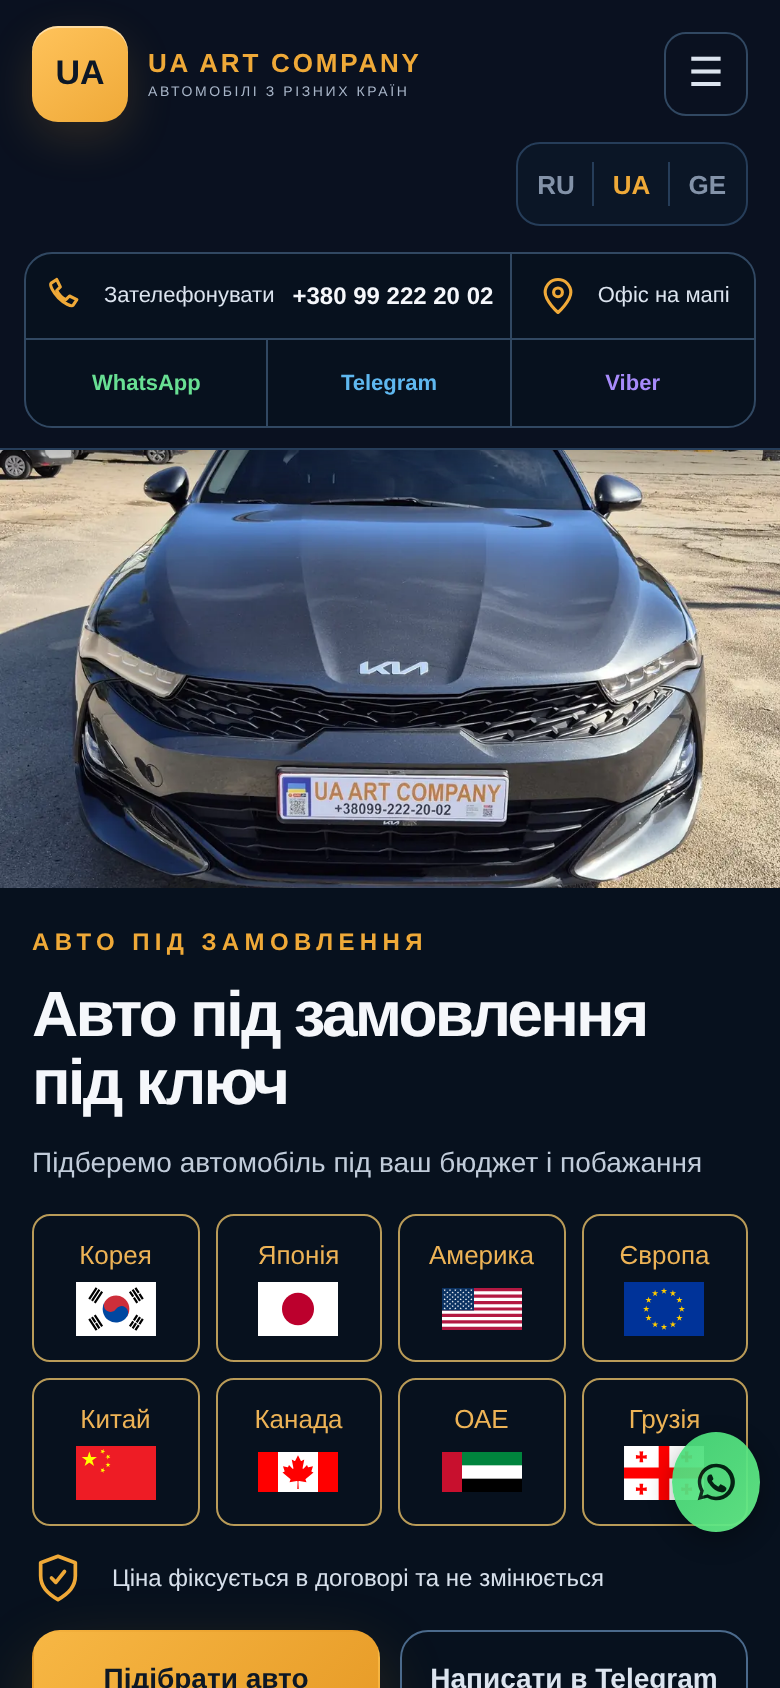
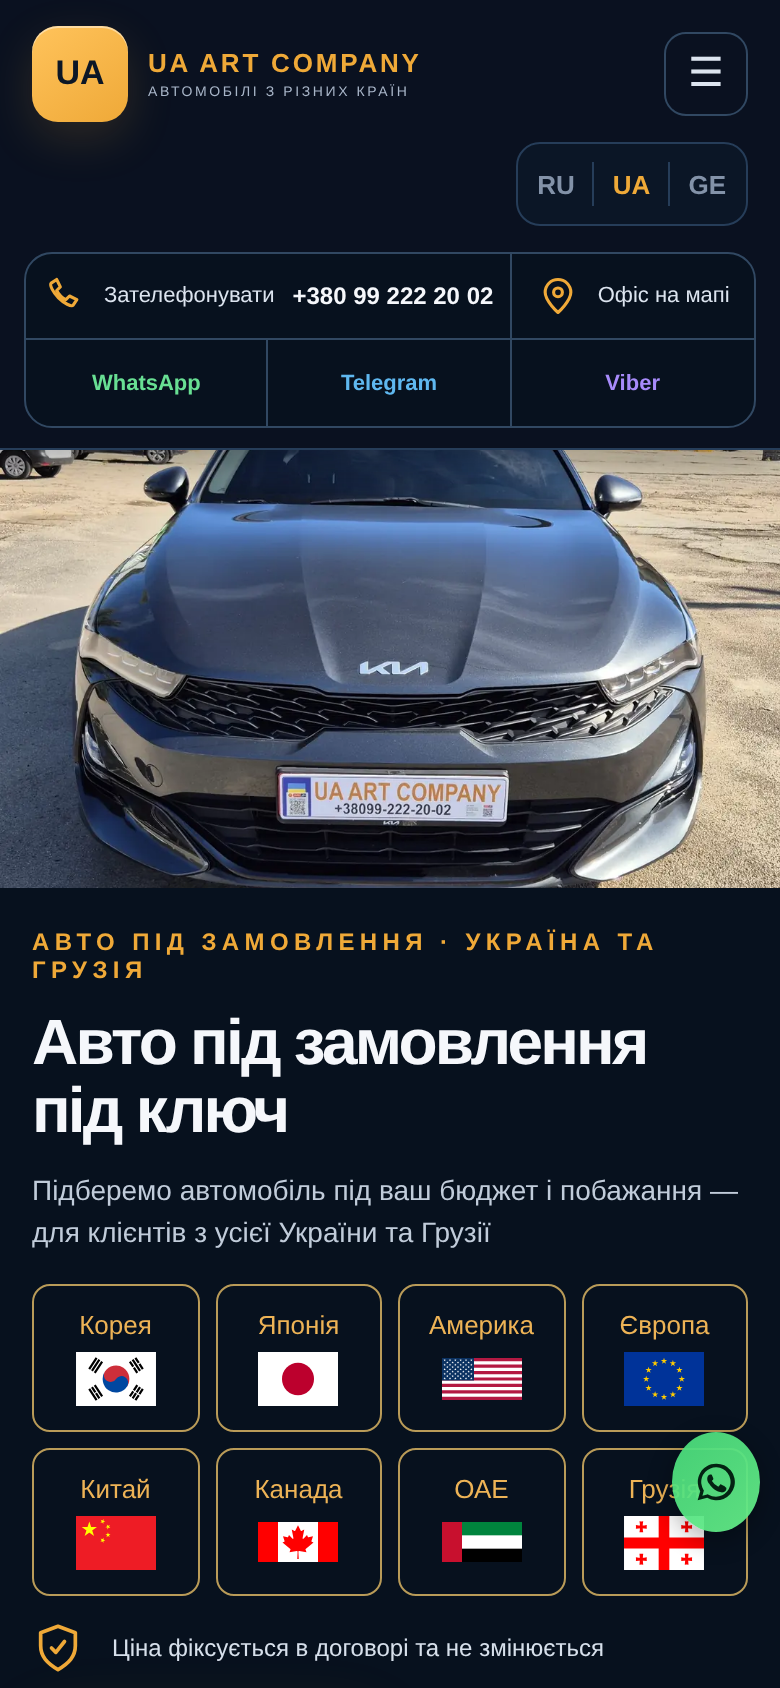
HOME-TEXT-001: approved Ukraine and Georgia wording (variant A), preview R2
Claude-Session: https://claude.ai/code/session_01AFgfbQ7mFM5FC7gE95hoag

Changed region(s): [[0.0308, 0.5545, 0.9538, 1.0], [0.7077, 0.8009, 0.7692, 0.8626], [0.0308, 0.8009, 0.0615, 0.8626]]

diff --git a/cloud/home_text_001/edit_home.py b/cloud/home_text_001/edit_home.py
@@ -1,20 +1,31 @@
-"""Remove the Kyiv binding from the first-screen labels of the home page (HOME-TEXT-001).
+"""First-screen and step-5 texts of the home page: Ukraine and Georgia instead of Kyiv (HOME-TEXT-001).
 
-Only the eyebrow and the second heading line change; every other byte stays as is.
-Each original label must occur exactly once, otherwise nothing is changed.
+Owner-approved wording 2026-10-25 (variant A). Only these four labels change; every
+other byte stays as is. Each original label must occur exactly once, otherwise
+nothing is changed.
 """
 
 EDITS = (
     ('<span class="eyebrow" data-ru="АВТО ПОД ЗАКАЗ · КИЕВ" data-uk="АВТО ПІД ЗАМОВЛЕННЯ · КИЇВ" '
      'data-ka="ავტომობილი შეკვეთით · კიევი">АВТО ПІД ЗАМОВЛЕННЯ · КИЇВ</span>',
-     '<span class="eyebrow" data-ru="АВТО ПОД ЗАКАЗ" data-uk="АВТО ПІД ЗАМОВЛЕННЯ" '
-     'data-ka="ავტომობილი შეკვეთით">АВТО ПІД ЗАМОВЛЕННЯ</span>'),
+     '<span class="eyebrow" data-ru="АВТО ПОД ЗАКАЗ · УКРАИНА И ГРУЗИЯ" data-uk="АВТО ПІД ЗАМОВЛЕННЯ · УКРАЇНА ТА ГРУЗІЯ" '
+     'data-ka="ავტომობილი შეკვეთით · საქართველო და უკრაინა">АВТО ПІД ЗАМОВЛЕННЯ · УКРАЇНА ТА ГРУЗІЯ</span>'),
     ('<br><span data-ru="под ключ в Киеве" data-uk="під ключ у Києві" '
      'data-ka="სრული მომსახურებით კიევში">під ключ у Києві</span></h1>',
      '<br><span data-ru="под ключ" data-uk="під ключ" data-ka="სრული მომსახურებით">під ключ</span></h1>'),
+    ('<p data-ru="Подберём автомобиль под ваш бюджет и пожелания" data-uk="Підберемо автомобіль під ваш бюджет і побажання" '
+     'data-ka="შეგირჩევთ ავტომობილს თქვენი ბიუჯეტისა და სურვილების შესაბამისად">Підберемо автомобіль під ваш бюджет і побажання</p>',
+     '<p data-ru="Подберём автомобиль под ваш бюджет и пожелания — для клиентов со всей Украины и Грузии" '
+     'data-uk="Підберемо автомобіль під ваш бюджет і побажання — для клієнтів з усієї України та Грузії" '
+     'data-ka="შეგირჩევთ ავტომობილს თქვენი ბიუჯეტისა და სურვილების შესაბამისად — კლიენტებისთვის მთელი საქართველოდან და უკრაინიდან">'
+     'Підберемо автомобіль під ваш бюджет і побажання — для клієнтів з усієї України та Грузії</p>'),
+    ('<small data-ru="В Киеве, с сопровождением" data-uk="У Києві, з супроводом" '
+     'data-ka="კიევში, თანხლებით">У Києві, з супроводом</small>',
+     '<small data-ru="В Украине и Грузии, с сопровождением" data-uk="В Україні та Грузії, з супроводом" '
+     'data-ka="საქართველოსა და უკრაინაში, თანხლებით">В Україні та Грузії, з супроводом</small>'),
 )
-# Public proof that the new heading is live.
-CHECK = '>під ключ</span></h1>'
+# Public proof that the new texts are live.
+CHECK = '>АВТО ПІД ЗАМОВЛЕННЯ · УКРАЇНА ТА ГРУЗІЯ</span>'
 
 
 def build(source):

diff --git a/cloud/home_text_001/test_edit_home.py b/cloud/home_text_001/test_edit_home.py
@@ -1,5 +1,5 @@
 #!/usr/bin/env python3
-"""The installed home page (HOME-LAYOUT-001 result) loses only the Kyiv binding of two labels."""
+"""The installed home page (HOME-LAYOUT-001 result) changes only in the four approved labels."""
 import base64
 import json
 from pathlib import Path
@@ -18,7 +18,7 @@ INSTALLED = build_home.build(base64.b64decode(LIVE['files'][LIVE['home']]['b64']
 
 
 class EditTests(unittest.TestCase):
-    def test_only_two_labels_change(self):
+    def test_only_planned_labels_change(self):
         after = edit_home.build(INSTALLED)
         restored = after
         for old, new in edit_home.EDITS:
@@ -28,6 +28,7 @@ class EditTests(unittest.TestCase):
         hero = after[after.index(b'<section class="hero ua-order-first"'):after.index(b'</h1>')].decode()
         for word in ('Києв', 'КИЇВ', 'Киев', 'КИЕВ', 'კიევ'):
             self.assertNotIn(word, hero)
+        self.assertIn('В Україні та Грузії, з супроводом</small>'.encode(), after)
 
     def test_refuses_unknown_page(self):
         with self.assertRaisesRegex(ValueError, 'HOME_LABEL_NOT_UNIQUE'):

diff --git a/cloud/home_text_001/release_constants.py b/cloud/home_text_001/release_constants.py
@@ -1,5 +1,5 @@
 """Home text release (HOME-TEXT-001); no private source in this package."""
-PREVIEW_TASK = 'HOME-TEXT-PREFLIGHT-20261025'
+PREVIEW_TASK = 'HOME-TEXT-PREFLIGHT-20261025-R2'
 INSTALL_TASK = 'HOME-TEXT-INSTALL-20261025'
 PACKAGE = 'cloud/home_text_001'
 HOME = 'video/index.html'
